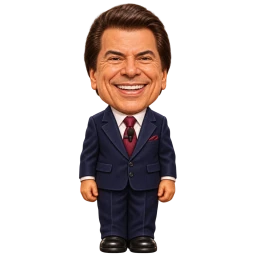
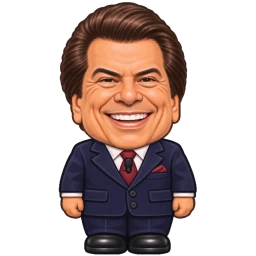
Refine Silvio's counter and add Daniel Vorcaro

diff --git a/apps/sessao/dev/market-smoke.js b/apps/sessao/dev/market-smoke.js
@@ -12,7 +12,7 @@ async page => {
   await page.getByRole('textbox',{name:'Seu nick'}).fill('Mercado QA');
   await page.getByRole('button',{name:'Criar sala'}).click();
   await page.getByRole('button',{name:'Iniciar sessão'}).click();
-  await page.getByRole('button',{name:/Abrir loja.*Doutor Gambiarra/}).click();
+  await page.getByRole('button',{name:/Abrir loja.*Daniel Vorcaro/}).click();
   const dialog = page.locator('#market-dialog');
   const slots = dialog.locator('.market-products > *');
   const detail = dialog.getByRole('region',{name:'Produto selecionado'});
@@ -26,7 +26,7 @@ async page => {
     }
   });
   await dialog.locator('.market-vendor img').evaluate(image=>image.decode());
-  if (!await dialog.getByText('Doutor Gambiarra',{exact:true}).isVisible()) throw Error('Vendor name');
+  if (!await dialog.getByText('Daniel Vorcaro',{exact:true}).isVisible()) throw Error('Vendor name');
   if (await slots.count()!==9) throw Error('Unexpected slot count');
   const bounds = async ()=>JSON.stringify(await Promise.all([dialog.boundingBox(),detail.boundingBox(),dialog.locator('.market-paging').boundingBox()]));
   await dialog.locator(".market-buy").waitFor();
@@ -128,11 +128,11 @@ async page => {
   await equippedMegaphone.waitFor({state:'hidden'});
   await chooseFromPalette('Fechar');
   await equipment.waitFor({state:'hidden'});
-  await page.getByRole('button',{name:/Abrir loja.*Doutor Gambiarra/}).click();
+  await page.getByRole('button',{name:/Abrir loja.*Daniel Vorcaro/}).click();
   await detail.waitFor();
   await dialog.getByRole('button',{name:'Fechar',exact:true}).click();
   await dialog.waitFor({state:'hidden'});
-  await page.getByRole('button',{name:/Abrir loja.*Doutor Gambiarra/}).click();
+  await page.getByRole('button',{name:/Abrir loja.*Daniel Vorcaro/}).click();
   await detail.waitFor();
   await page.keyboard.press('Escape');
   await dialog.waitFor({state:'hidden'});
@@ -142,7 +142,7 @@ async page => {
   await page.getByRole('textbox',{name:'Seu nick'}).fill('Mercado Lotado');
   await page.getByRole('button',{name:'Criar sala'}).click();
   await page.getByRole('button',{name:'Iniciar sessão'}).click();
-  await page.getByRole('button',{name:/Abrir loja.*Doutor Gambiarra/}).click();
+  await page.getByRole('button',{name:/Abrir loja.*Daniel Vorcaro/}).click();
 
   const selectProduct = async name =>{
     const product = dialog.getByRole('button',{name:new RegExp('^'+name+' ·','i')});

diff --git a/apps/sessao/src/draw-map.ts b/apps/sessao/src/draw-map.ts
@@ -86,17 +86,12 @@ export function drawMap(scene: Phaser.Scene,
       continue;
     }
     if (name==='Balcão do Topa ou Não Topa') {
-      const envelopes = scene.add.graphics().setDepth(y+21);
-      for (const offset of [8,19,30]) {
-        envelopes.fillStyle(0xffe8aa).fillRect(x+offset,y+1,8,5);
-        envelopes.lineStyle(0.5,0x8e6b39).lineBetween(x+offset,y+1,x+offset+4,y+4)
-          .lineBetween(x+offset+4,y+4,x+offset+8,y+1);
-      }
       scene.add.text(x+22.5,y+9,'TOPA OU NÃO TOPA',{
         fontFamily:'system-ui',fontSize:'3.5px',fontStyle:'bold',color:'#fff3d6',
         backgroundColor:'#412064',padding:{x:2,y:1},resolution:4,
       }).setOrigin(.5,0).setDepth(y+21);
-    } else if (name!=='Balcão da tesouraria') prop(2,x+13,y-17,19,23,y+1);
+    }
+    if (name!=='Balcão da tesouraria') prop(2,x+13,y-17,19,23,y+1);
     prop(1,x,y-3,45,23,y+20);
   }
   for (const furnishing of furnishings) {

diff --git a/apps/sessao/src/npcs.ts b/apps/sessao/src/npcs.ts
@@ -8,7 +8,7 @@ export const snackBar = {
 } as const;
 
 export const npcs = {
-  vendor:{name:'Doutor Gambiarra',sprite:'doutor-gambiarra.webp',portrait:'retrato-doutor-gambiarra.webp',x:675,y:231,direction:0,dialogue:'convenience',label:'Apoio Técnico',catalog:'equipment'},
+  vendor:{name:'Daniel Vorcaro',sprite:'daniel-vorcaro.webp',portrait:'retrato-daniel-vorcaro.webp',x:675,y:231,direction:0,dialogue:'convenience',label:'Apoio Técnico',catalog:'equipment'},
   furnitureVendor:{name:'Roberto Justus',sprite:'roberto-justus.webp',portrait:'retrato-roberto-justus.webp',x:525,y:451,direction:0,
     interaction:{x:530,y:466},dialogue:'furniture',label:'Gabinete de Luxo',catalog:'furniture'},
   credentialsVendor:{name:'Carmem Carimbo',sprite:'carmem-carimbo.webp',portrait:'retrato-carmem-carimbo.webp',x:160,y:473,direction:0,
